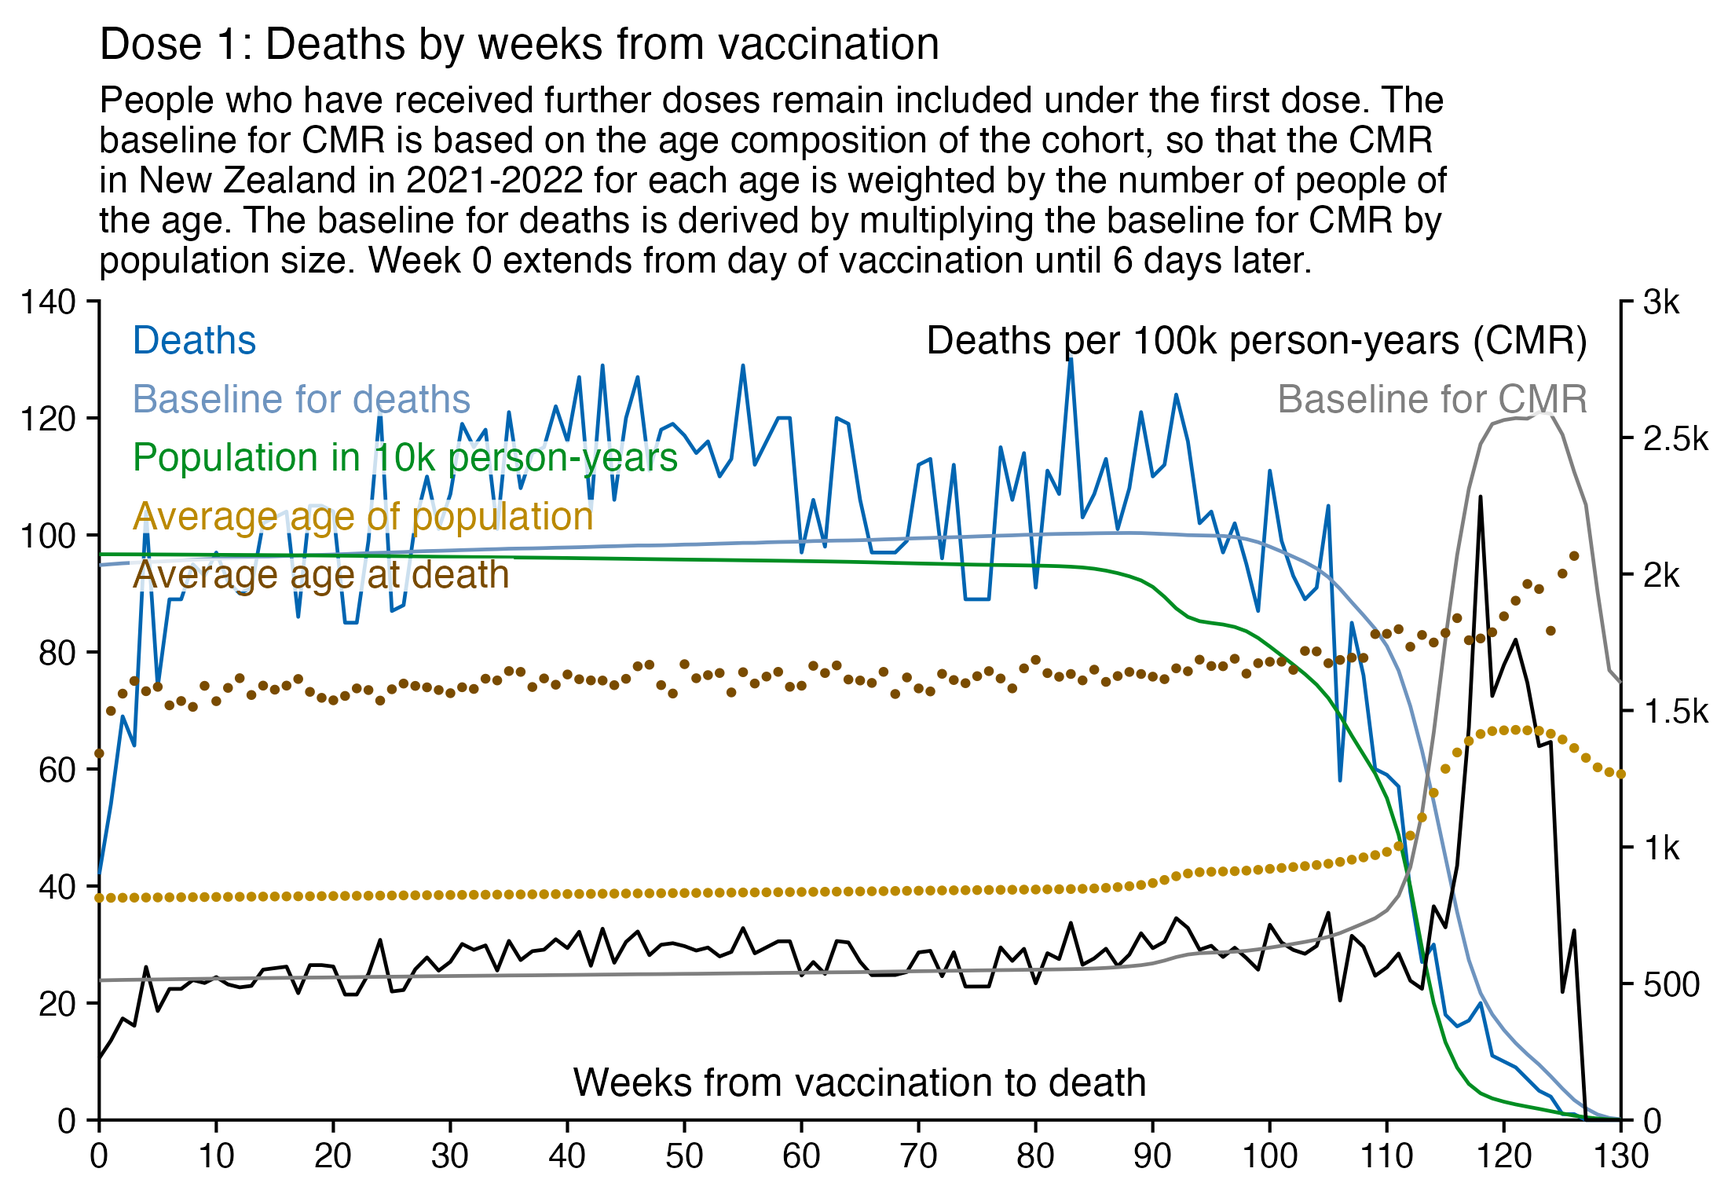
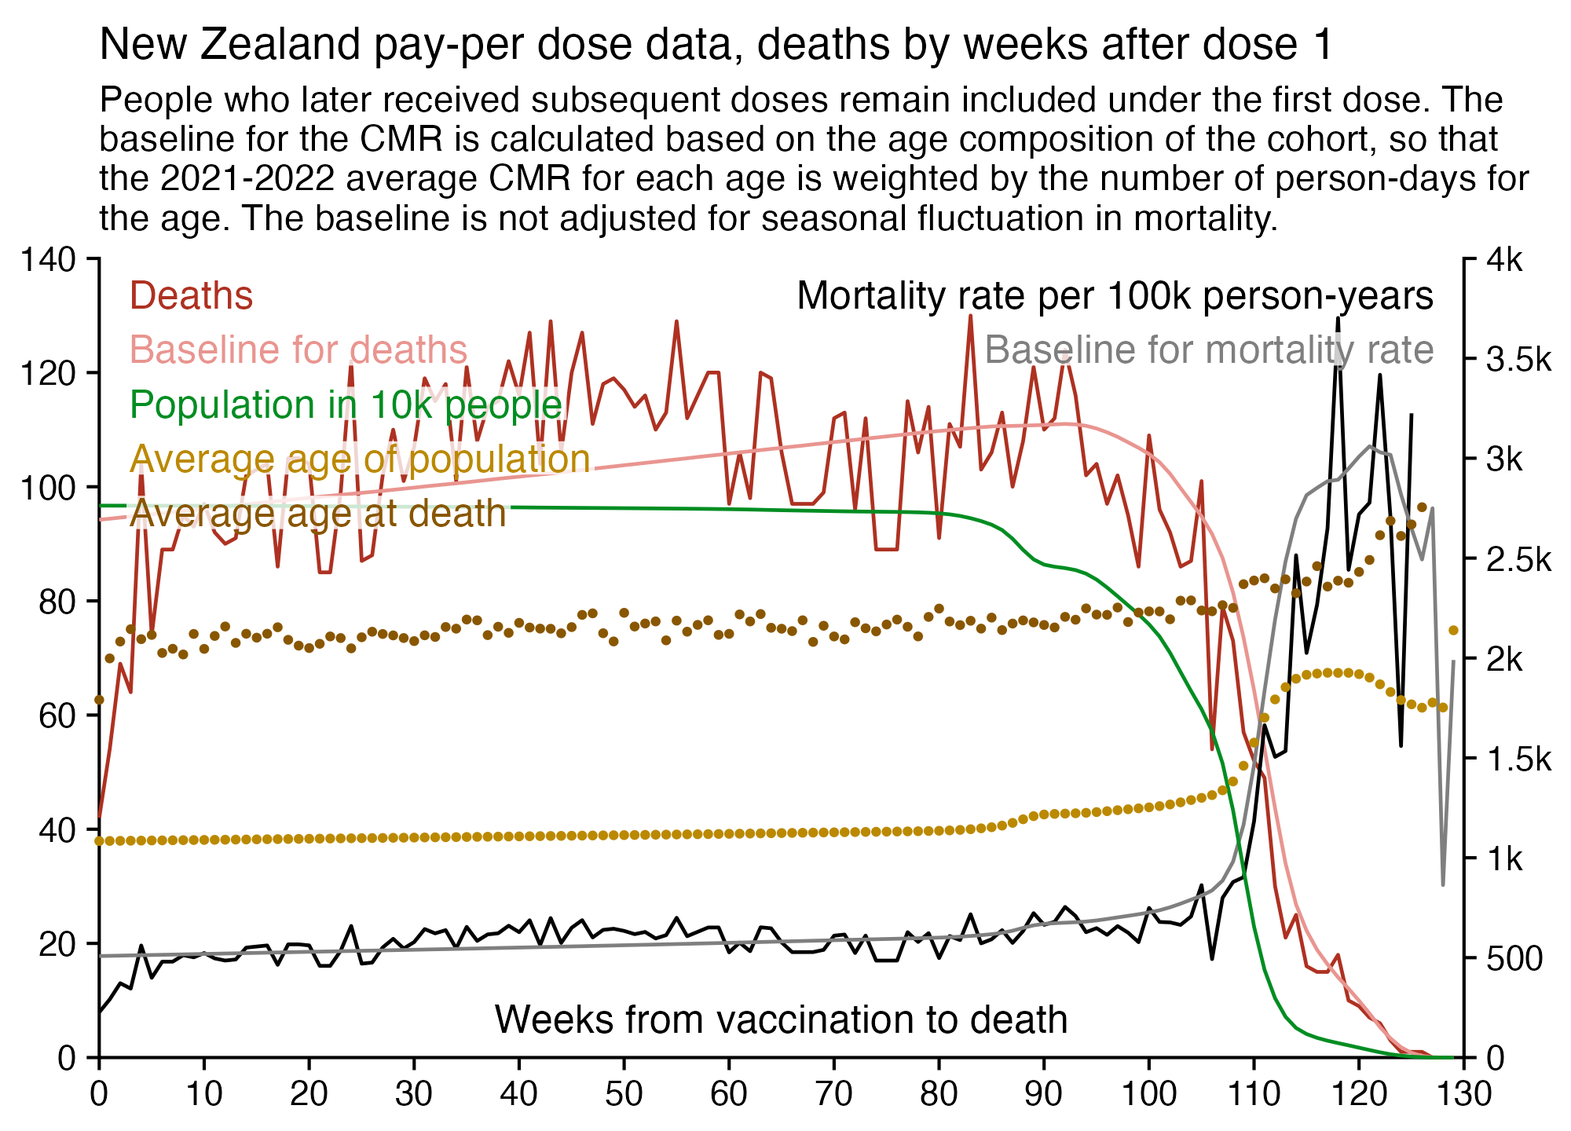
a

Changed region(s): [[0.0, 0.0, 0.992, 1.0]]

diff --git a/moar.html b/moar.html
@@ -57,7 +57,7 @@ th{background:#eee;text-align:left;font-weight:bold}
 </ul></li>
 <li><a href=#Barry_Youngs_interview_with_Liz_Gunn>Barry Young's interview with Liz Gunn</a>
 <ul>
-<li><a href=#Table_for_ten_batches_with_highest_percentage_of_deaths>Table for ten batches with highest percentage of deaths</a></li>
+<li><a href=#Table_for_the_ten_batches_with_the_highest_percentage_of_deaths>Table for the ten batches with the highest percentage of deaths</a></li>
 <li><a href=#Counting_days_with_more_than_120_deaths>Counting days with more than 120 deaths</a></li>
 <li><a href=#Table_for_deaths_by_vaccination_site>Table for deaths by vaccination site</a></li>
 </ul></li>
@@ -88,7 +88,7 @@ th{background:#eee;text-align:left;font-weight:bold}
 </ul></li>
 <li><a href=#Other_datasets_published_by_Kirsch>Other datasets published by Kirsch</a>
 <ul>
-<li><a href=#Increasing_trend_in_deaths_by_days_after_vaccination_in_US_Medicare_data>Increasing trend in deaths by days after vaccination in US Medicare data</a></li>
+<li><a href=#US_Medicare_data>US Medicare data</a></li>
 <li><a href=#Data_for_deaths_in_2020_2023_in_Maldives>Data for deaths in 2020-2023 in Maldives</a></li>
 </ul></li>
 <li><a href=#Research_by_other_people>Research by other people</a>
@@ -365,7 +365,7 @@ mrn,batch_id,dose_number,date_time_of_service,date_of_death,vaccine_name,date_of
 <a href=#Barry_Youngs_interview_with_Liz_Gunn id=Barry_Youngs_interview_with_Liz_Gunn>Barry Young's interview with Liz Gunn</a>
 </h2>
 <h3>
-<a href=#Table_for_ten_batches_with_highest_percentage_of_deaths id=Table_for_ten_batches_with_highest_percentage_of_deaths>Table for ten batches with highest percentage of deaths</a>
+<a href=#Table_for_the_ten_batches_with_the_highest_percentage_of_deaths id=Table_for_the_ten_batches_with_the_highest_percentage_of_deaths>Table for the ten batches with the highest percentage of deaths</a>
 </h3>
 <p>Barry Young's presentation included the table below which shows the ten batches with the highest percentage of deaths per dose: [<a href="https://rumble.com/v3yqgsf-liz-gunn-the-mother-of-all-covid-19-vaccine-revelations-data-revealed-in-th.html">https://rumble.com/v3yqgsf-liz-gunn-the-mother-of-all-covid-19-vaccine-revelations-data-revealed-in-th.html</a>, time 47:00]</p>
 <div class="width6">
@@ -926,20 +926,12 @@ ggsave(&quot;1.png&quot;,width=5.5,height=3.8,dpi=400)</pre>
 <div class="width6">
 <img src="i/moar-first-dose-1.png">
 </div>
-<p>Kirsch didn't use the <span class="quote">&quot;bucket&quot;</span> system in his plot, so people who later got subsequent doses remained included under the first dose.</p>
-<p>I tried using the age composition of the cohort to calculate a baseline for the expected number of deaths per week. I used data from <a href=https://infoshare.stats.govt.nz>infoshare.stats.govt.nz</a> to calculate a CMR for each single-year age in 2021-2022, and I indexed an associative array of CMR values for each age with a vector of the ages of people in my cohort, and I took the average value of the resulting vector, which gave me a baseline for the CMR. And I multiplied it by the cohort size to get the baseline for the number of deaths. My baseline for the weekly number of deaths ended up being about 96-100, so it's much higher than Kirsch's baseline:</p>
+<p>Kirsch didn't use the bucket system in his plot, so people who later got subsequent doses remained included under the first dose.</p>
+<p>I tried using the age composition of the cohort to calculate a baseline for the expected number of deaths per week. I used data from <a href=https://infoshare.stats.govt.nz>infoshare.stats.govt.nz</a> to calculate a CMR for each single-year age in 2021-2022, and I indexed an associative array of CMR values for each age with a vector of the ages of people in my cohort, and I took the average value of the resulting vector, which gave me a baseline for the CMR. And I multiplied it by the cohort size to get the baseline for the number of deaths. My baseline for the weekly number of deaths was about 94 at first but it gradually increased higher because of the aging of the cohort, so it's much higher than Kirsch's baseline:</p>
 <div class="width6">
 <img src="i/moar-first-dose-2.png">
 </div>
-<p>My baseline gets higher over time because a year after the day of vaccination people are a year older, and also because younger people got the first dose later so they run into the end of the dataset earlier. The date of the last death included in the dataset is October 26th 2023, so I'm using it as the date of the end of data. The average number of weeks from the first dose until end of data is about 115 in the age band 80-89 but about 109 in the age band 30-39:</p>
-<pre>&gt; t=as.data.frame(data.table::fread(&quot;nz-record-level-data-4M-records.csv&quot;))
-&gt; for(i in grep(&quot;date&quot;,colnames(t)))t[,i]=as.Date(t[,i],&quot;%m-%d-%Y&quot;)
-&gt; t=t[t$dose==1,]
-&gt; age=(t$date_time_of_service-t$date_of_birth)/365 # age is age at vaccination
-&gt; weeks=floor((max(t$date_of_death,na.rm=T)-t$date_time_of_service)/7)
-&gt; round(tapply(weeks,floor(age/10)*10,mean))
-  0  10  20  30  40  50  60  70  80  90 100 110
- 86 105 108 109 110 111 113 115 115 113 111 102</pre>
+<p>My baseline gets higher over time because a year after the day of vaccination people are a year older, and also because younger people got the first dose later so they run into the end of the dataset earlier.</p>
 <p>Uncle John Returns got similar results: [<a href="https://twitter.com/UncleJo46902375/status/1734606430739873865">https://twitter.com/UncleJo46902375/status/1734606430739873865</a>]</p>
 <div class="width8">
 <img src="i/moar-first-dose-3.png">
@@ -948,76 +940,113 @@ ggsave(&quot;1.png&quot;,width=5.5,height=3.8,dpi=400)</pre>
 <div class="width5">
 <img src="i/moar-first-dose-4.gif">
 </div>
-<pre>t=as.data.frame(data.table::fread(&quot;nz-record-level-data-4M-records.csv&quot;))
+<pre>library(tidyverse)
+
+t=as.data.frame(data.table::fread(&quot;nz-record-level-data-4M-records.csv&quot;))
 for(i in grep(&quot;date&quot;,colnames(t)))t[,i]=as.Date(t[,i],&quot;%m-%d-%Y&quot;)
-t=t[t$dose==1,]
+
+maxdate=as.Date(&quot;2023-9-30&quot;)
+t=t[!(!is.na(t$date_of_death)&amp;t$date_of_death&gt;maxdate),]
+t=t[!t$date_time_of_service&gt;maxdate,]
+t=t[!(!is.na(t$date_of_death)&amp;t$date_of_death&lt;t$date_time_of_service),]
+
+# t=t[order(t$date_time_of_service),]
+# t=t[!duplicated(t$mrn),]
+
+t=t[t$dose_number%in%1,]
+
+# age=t$date_of_birth%--%t$date_time_of_service%/%years()
+# t=t[age%in%60:79,]
+
+# t=t[t$date_time_of_service%in%as.Date(&quot;2021-7-1&quot;):as.Date(&quot;2021-9-30&quot;),]
+
+bin=7
 
 dead=t[!is.na(t$date_of_death),]
-deadweek=as.numeric(dead$date_of_death-dead$date_time_of_service)%/%7
+deadbin=as.numeric(dead$date_of_death-dead$date_time_of_service)%/%bin
 
-enddate=pmin(t$date_of_death,max(t$date_of_death,na.rm=T),na.rm=T)
-endweek=as.numeric(enddate-t$date_time_of_service)%/%7
-age=(t$date_time_of_service-t$date_of_birth)/365
+endbin=as.numeric(maxdate-t$date_time_of_service)%/%bin
+age=t$date_of_birth%--%t$date_time_of_service/years()
 
-pop=tail(read.csv(&quot;https://mongol-fi.github.io/f/nz_infoshare_population.csv&quot;),2)[,2:96]
-death=tail(read.csv(&quot;https://mongol-fi.github.io/f/nz_infoshare_deaths.csv&quot;),2)[,2:96]
-cmr=data.frame(x=0:94,y=colMeans(death)/colMeans(pop)*1e5)
+nzpop=colMeans(tail(read.csv(&quot;https://mongol-fi.github.io/f/nz_infoshare_population.csv&quot;),2)[,2:96])
+nzdeath=colMeans(tail(read.csv(&quot;https://mongol-fi.github.io/f/nz_infoshare_deaths.csv&quot;),2)[,2:96])
+cmr=data.frame(x=0:94,y=nzdeath/nzpop*1e5)
 cmr=c(cmr$y,predict(loess(y~x,cmr,control=loess.control(surface=&quot;direct&quot;)),95:120))
 
-weeks=0:max(endweek)
-pop=rev(cumsum(rev(table(factor(endweek,weeks)))))
-baseline=weeks|&gt;sapply(\(i)mean(cmr[floor(age[i&lt;=endweek]+(i/365*7))+1]))
+bins=0:max(endbin)
+pop=rev(cumsum(rev(table(factor(endbin,bins)))))*bin
+baseline=sapply(bins,\(i)mean(cmr[floor(age[i&lt;=endbin]+i*bin/365)+1]))
 
-xy=data.frame(week=weeks,baseline,pop)
-xy$dead=as.numeric(table(factor(deadweek,xy$week)))
-xy$cmr=xy$dead/xy$pop*1e5*365/7
-xy$age=age=weeks|&gt;sapply(\(i)mean(age[i&lt;=endweek]))+xy$week*7/365
-xy$deadage=tapply(dead$age,factor(deadweek,xy$week),mean)+xy$week*7/365
+xy=data.frame(bin=bins,baseline,pop)
+xy$dead=as.numeric(table(factor(deadbin,xy$bin)))
+xy$cmr=xy$dead/xy$pop*1e5*365
+xy$age=sapply(bins,\(i)mean(age[i&lt;=endbin]))+xy$bin*bin/365
+xy$deadage=tapply(dead$age,factor(deadbin,xy$bin),mean)+xy$bin*bin/365
+xy$deadbase=xy$baseline*xy$pop/1e5/365
 
-ystart=xstart=0;xend=130;xstep=10
-candidates=c(sapply(c(1,2,5),\(x)x*10^c(-10:10)))
-ymax=max(xy$age,xy$dead,xy$pop/1e4)
-ystep=candidates[which.min(abs(candidates-ymax/5))]
+# xy$bin=xy$bin*bin # display days instead of weeks since vaccination on x-axis
+
+xy$cmr[xy$pop&lt;1e4]=NA
+
+label=read.csv(row.names=1,text=&quot;name,title
+cmr,Mortality rate per 100k person-years
+baseline,Baseline for mortality rate
+dead,Deaths
+deadbase,Baseline for deaths
+age,Average age of population
+deadage,Average age at death
+pop,Population in 10k people&quot;)
+label$color=c(&quot;black&quot;,&quot;gray50&quot;,hcl(15,100,40),hcl(15,60,70),hcl(60,90,60),hcl(60,110,40),hcl(135,80,50))
+
+lab1=strsplit(&quot;dead,deadbase,pop,age,deadage&quot;,&quot;,&quot;)[[1]]
+lab2=strsplit(&quot;cmr,baseline&quot;,&quot;,&quot;)[[1]]
+
+label$mult=1
+label[&quot;pop&quot;,]$mult=1/bin/10000
+label[&quot;baseline&quot;,]$mult=label[&quot;cmr&quot;,]$mult=1
+
+xstart=ystart=0
+cand=c(sapply(c(1,2,5),\(x)x*10^c(-10:10)))
+ymax=max(t(t(xy[,lab1])*label[lab1,]$mult),na.rm=T)
+ystep=cand[which.min(abs(cand-ymax/5))]
 yend=ystep*ceiling(ymax/ystep)
+xstep=cand[which.min(abs(cand-max(xy$bin)/9))]
+xend=xstep*ceiling(max(xy$bin)/xstep)
 xbreak=seq(xstart,xend,xstep)
 ybreak=seq(ystart,yend,ystep)
-
-ymax2=max(xy$cmr,xy$baseline)
-ystep2=candidates[which.min(abs(candidates-ymax2/6))]
+ymax2=max(t(t(xy[,lab2])*label[lab2,]$mult),na.rm=T)
+ystep2=cand[which.min(abs(cand-ymax2/6))]
 yend2=ceiling(ymax2/ystep2)*ystep2
-secmult=yend/yend2
+secmult=yend/yend2*.99999
 
-xy=xy[sample(nrow(xy)),] # get random pattern of overlap between dots
+label1=data.frame(x=.02*xend,y=seq(yend*.955,ystart,,15)[1:length(lab1)],label=label[lab1,]$title,color=label[lab1,]$color)
+label2=data.frame(x=.98*xend,y=seq(yend*.955,ystart,,15)[1:length(lab2)],label=label[lab2,]$title,color=label[lab2,]$color)
 
-color1=c(hcl(245,80,40),hcl(245,45,60),hcl(135,80,50),hcl(60,90,60),hcl(60,100,35))
-color2=c(&quot;black&quot;,&quot;gray50&quot;)
+label$mult=label$mult*ifelse(rownames(label)%in%lab2,secmult,1)
+xy2=as.data.frame(t(t(xy)*c(1,label[names(xy)[-1],]$mult)))
 
-label1=data.frame(x=.02*xend,y=seq(yend,ystart,,15)[1:5],label=c(&quot;Deaths&quot;,&quot;Baseline for deaths&quot;,&quot;Population in 10k person-years&quot;,&quot;Average age of population&quot;,&quot;Average age at death&quot;))
-label2=data.frame(x=.98*xend,y=seq(yend,ystart,,15)[1:2],label=c(&quot;Deaths per 100k person-years (CMR)&quot;,&quot;Baseline for CMR&quot;))
+xy2=xy2[sample(nrow(xy2)),] # get random pattern of overlap between `geom_point`
 
 kimi=\(x)ifelse(abs(x)&gt;=1e6,paste0(x/1e6,&quot;M&quot;),ifelse(abs(x)&gt;=1e3,paste0(x/1e3,&quot;k&quot;),x))
 
-library(ggplot2)
-ggplot(xy,aes(x=week))+
+p=ggplot(xy2,aes(x=bin))+
 geom_hline(yintercept=ystart,color=&quot;black&quot;,linewidth=.35,lineend=&quot;square&quot;)+
 geom_vline(xintercept=c(xstart,xend),color=&quot;black&quot;,linewidth=.35,lineend=&quot;square&quot;)+
-geom_line(aes(y=dead),linewidth=.4,color=color1[1])+
-geom_line(aes(y=baseline*pop/1e5/365*7),linewidth=.4,color=color1[2])+
-geom_line(aes(y=pop/1e4),linewidth=.4,color=color1[3])+
-geom_line(aes(y=cmr*secmult),linewidth=.4,color=color2[1])+
-geom_line(aes(y=baseline*secmult),linewidth=.4,color=color2[2])+
-geom_point(aes(y=age),size=.4,color=color1[4])+
-geom_point(aes(y=deadage),size=.4,color=color1[5])+
-geom_line(aes(y=pop*1e4),linewidth=.4,linetype=2)+
-geom_label(data=label1,aes(x=x,y=y,label=label),fill=alpha(&quot;white&quot;,.8),label.r=unit(0,&quot;lines&quot;),label.padding=unit(.04,&quot;lines&quot;),label.size=0,size=3.2,hjust=0,vjust=1.7,color=color1)+
-geom_label(data=label2,aes(x=x,y=y,label=label),fill=alpha(&quot;white&quot;,.8),label.r=unit(0,&quot;lines&quot;),label.padding=unit(.04,&quot;lines&quot;),label.size=0,size=3.2,hjust=1,vjust=1.7,color=color2)+
+geom_line(aes(y=dead),linewidth=.4,color=label[&quot;dead&quot;,]$color)+
+geom_line(aes(y=deadbase),linewidth=.4,color=label[&quot;deadbase&quot;,]$color)+
+geom_line(aes(y=cmr),linewidth=.4,color=label[&quot;cmr&quot;,]$color)+
+geom_line(aes(y=baseline),linewidth=.4,color=label[&quot;baseline&quot;,]$color)+
+geom_line(aes(y=pop),linewidth=.4,color=label[&quot;pop&quot;,]$color)+
+geom_point(aes(y=age),size=.4,color=label[&quot;age&quot;,]$color)+
+geom_point(aes(y=deadage),size=.4,color=label[&quot;deadage&quot;,]$color)+
+geom_label(data=label1,aes(x=x,y=y,label=label),fill=alpha(&quot;white&quot;,.8),label.r=unit(0,&quot;lines&quot;),label.padding=unit(.04,&quot;lines&quot;),label.size=0,size=3.2,hjust=0,vjust=.5,color=label1$color)+
+geom_label(data=label2,aes(x=x,y=y,label=label),fill=alpha(&quot;white&quot;,.8),label.r=unit(0,&quot;lines&quot;),label.padding=unit(.04,&quot;lines&quot;),label.size=0,size=3.2,hjust=1,vjust=.5,color=label2$color)+
 annotate(geom=&quot;label&quot;,x=xend/2,y=0,vjust=-.7,hjust=.5,label=&quot;Weeks from vaccination to death&quot;,fill=alpha(&quot;white&quot;,.8),label.r=unit(0,&quot;lines&quot;),label.padding=unit(.04,&quot;lines&quot;),label.size=0,size=3.2)+
-labs(x=NULL,y=&quot;&quot;,title=&quot;Dose 1: Deaths by weeks from vaccination&quot;,subtitle=paste0(&quot;People who have received further doses remain included under the first dose. The baseline for CMR is based on the age composition of the cohort, so that the CMR in New Zealand in 2021-2022 for each age is weighted by the number of people of the age. The baseline for deaths is derived by multiplying the baseline for CMR by population size. Week 0 extends from day of vaccination until 6 days later.&quot;)|&gt;stringr::str_wrap(83))+
+labs(x=NULL,y=&quot;&quot;,title=paste0(&quot;New Zealand pay-per dose data, deaths by weeks after dose 1&quot;)|&gt;str_wrap(100),subtitle=paste0(&quot;People who later received subsequent doses remain included under the first dose. The baseline for the CMR is calculated based on the age composition of the cohort, so that the 2021-2022 average CMR for each age is weighted by the number of person-days for the age. The baseline is not adjusted for seasonal fluctuation in mortality.&quot;)|&gt;str_wrap(86))+
 coord_cartesian(clip=&quot;off&quot;)+
 scale_x_continuous(limits=c(xstart,xend),breaks=xbreak,expand=c(0,0))+
-scale_y_continuous(limits=c(ystart,yend),breaks=ybreak,expand=c(0,0),labels=kimi,sec.axis=sec_axis(trans=~./secmult,breaks=seq(0,yend2,ystep2),labels=kimi))+
-theme(
-  axis.text=element_text(size=8,color=&quot;black&quot;),
+scale_y_continuous(limits=c(ystart,yend),breaks=ybreak,expand=c(0,0),label=kimi,sec.axis=sec_axis(trans=~./secmult,breaks=seq(0,yend2,ystep2),label=kimi))+
+theme(axis.text=element_text(size=8,color=&quot;black&quot;),
   axis.ticks=element_line(linewidth=.35,color=&quot;black&quot;),
   axis.ticks.length=unit(.2,&quot;lines&quot;),
   axis.title=element_blank(),
@@ -1026,11 +1055,10 @@ theme(
   panel.background=element_rect(fill=&quot;white&quot;),
   panel.grid=element_blank(),
   plot.margin=margin(.3,.3,.3,.3,&quot;lines&quot;),
-  plot.subtitle=element_text(size=8.5,margin=margin(0,0,.6,0,&quot;lines&quot;)),
-  plot.title=element_text(size=10.2,margin=margin(.2,0,.4,0,&quot;lines&quot;))
-)
-
-ggsave(&quot;1.png&quot;,width=5.5,height=3.8,dpi=400)</pre>
+  plot.subtitle=element_text(size=8.4,margin=margin(0,0,.6,0,&quot;lines&quot;)),
+  plot.title=element_text(size=10.2,margin=margin(.2,0,.4,0,&quot;lines&quot;)))
+ggsave(&quot;1.png&quot;,width=5,height=3.6,dpi=400)
+system(&quot;qlmanage -p 1.png &amp;&gt;/dev/null&quot;)</pre>
 <h3>
 <a href=#Calculating_an_accurate_baseline_for_deaths_after_third_dose_in_ages_70_79 id=Calculating_an_accurate_baseline_for_deaths_after_third_dose_in_ages_70_79>Calculating an accurate baseline for deaths after third dose in ages 70-79</a>
 </h3>
@@ -1802,7 +1830,7 @@ ggsave(&quot;1.png&quot;,width=4.6,height=3.3)</pre>
 <a href=#Other_datasets_published_by_Kirsch id=Other_datasets_published_by_Kirsch>Other datasets published by Kirsch</a>
 </h2>
 <h3>
-<a href=#Increasing_trend_in_deaths_by_days_after_vaccination_in_US_Medicare_data id=Increasing_trend_in_deaths_by_days_after_vaccination_in_US_Medicare_data>Increasing trend in deaths by days after vaccination in US Medicare data</a>
+<a href=#US_Medicare_data id=US_Medicare_data>US Medicare data</a>
 </h3>
 <p>Kirsch wrote: [<a href="https://kirschsubstack.com/p/medicare-death-data-proves-the-covid">https://kirschsubstack.com/p/medicare-death-data-proves-the-covid</a>]</p>
 <blockquote>
@@ -2077,6 +2105,27 @@ ggsave(&quot;1.png&quot;,width=4.5,height=3)</pre>
 <img src="i/moar-medicare-16.png">
 </div>
 <p>So maybe if Kirsch can get the source who gave him the Medicare data to do a query for the number of deaths by days from vaccination and by vaccine type, it would show that Moderna vaccines had a spike in deaths a week later than Pfizer vaccines.</p>
+<p>However next I found that the Medicare data from Connecticut seems to contradict my hypothesis, because there's a fairly sharp inflection point in deaths around day 30 even for the second dose (which obviously cannot be explained by deaths caused by the third dose):</p>
+<div class="width7">
+<img src="i/moar-medicare-17.png">
+</div>
+<p>Out of people who have both first and second doses listed in the Connecticut data, the date of the second shot is within 30 days from the first shot for about 85% of people. But out of people with both second and third doses listed, the third dose is within 30 days from the second dose for only about 1% of people.</p>
+<p>In the case of the New Zealand data, if you only include dose 1 for each person and not the earliest listed dose which is often not dose 1, then you also get a sharper turning point in deaths around days 30-50:</p>
+<div class="width7">
+<img src="i/moar-medicare-18.png">
+</div>
+<p>Here's another plot which only shows the splines but where I added a line for the second dose in the Connecticut data, which has a fairly sharp turning point around days 30-40:</p>
+<div class="width7">
+<img src="i/moar-medicare-19.png">
+</div>
+<p>In the NZ data it looks like older age groups have a sharper turning point around 30-50 days, but on the other hand younger age groups have more noise because of a low number of deaths, so it's hard to tell:</p>
+<div class="width6">
+<img src="i/moar-medicare-20.png">
+</div>
+<p>For some reason the maximum age in the Medicare all states subset sheet is only 80 years, so I had to adjust my age groups for the plot below. However you can't really tell if the inflection point during the first 1-2 months occurs earlier in younger or older age groups:</p>
+<div class="width6">
+<img src="i/moar-medicare-21.png">
+</div>
 <h3>
 <a href=#Data_for_deaths_in_2020_2023_in_Maldives id=Data_for_deaths_in_2020_2023_in_Maldives>Data for deaths in 2020-2023 in Maldives</a>
 </h3>
@@ -3247,6 +3296,10 @@ from the seasonal plus trend fit.</pre>
            x        y movingaverage      stl
 1 2010-12-30 644.0150      661.7664 697.5768
 2 2011-01-06 669.6959      663.6873 697.1584</pre>
+<p>In the United States the trend calculated with <code>stl</code> also began to increase in late 2019 because of COVID deaths in spring 2020:</p>
+<div class="width6">
+<img src="i/moar-epidemiologist-3.png">
+</div>
 <h3>
 <a href=#Increase_in_mortality_rate_in_batches_10_13_and_34 id=Increase_in_mortality_rate_in_batches_10_13_and_34>Increase in mortality rate in batches 10, 13, and 34</a>
 </h3>
@@ -3371,7 +3424,7 @@ system(&quot;montage -geometry +0+0 -tile 2x [12]..png 1.png&quot;)</pre>
 <img src="i/moar-medicare-pneumonia.png">
 </div>
 <p>(The pneumonia vaccine data published by Kirsch had a large number of deaths on the day of vaccination, so I omitted them from the plot above in order to not stretch the y-axis too much. For example in 2020 there were 1487 deaths on the day of vaccination but only 387 deaths the next day. If it's true that a thousand extra people died on the day of a pneumonia vaccination, then that seems like a clear safety signal, but a similar phenomenon is not visible in the data for COVID vaccines that Kirsch published from the United States, New Zealand, or the Maldives.)</p>
-<p>There also seems to be reduced mortality for about 3 months after the flu vaccines:</p>
+<p>There also seems to be reduced mortality for about 2-3 months after the flu vaccines:</p>
 <div class="width6">
 <img src="i/moar-medicare-pneumonia-2.png">
 </div>
@@ -3382,11 +3435,11 @@ system(&quot;montage -geometry +0+0 -tile 2x [12]..png 1.png&quot;)</pre>
 <h3>
 <a href=#Strong_signal_found_by_Kalev id=Strong_signal_found_by_Kalev>Strong signal found by Kalev</a>
 </h3>
-<p>Some Estonian guy on Substack wrote that there was a strong safety signal in the pay-per-dose data, because the mortality rate in ages 70 to 90 increased from about 2,000 in 2021 to about 4,000-5,000 in 2022 and 2023: [<a href="https://kalev.substack.com/p/new-zealand-vaccine-data-a-case-for">https://kalev.substack.com/p/new-zealand-vaccine-data-a-case-for</a>]</p>
+<p>Some Estonian guy on Substack wrote that there was a strong safety signal in the pay-per-dose data, because the mortality rate in ages 70 to 90 increased from about 1,000-2,000 in 2021 to about 3,000-4,000 in 2022 and 2023: [<a href="https://kalev.substack.com/p/new-zealand-vaccine-data-a-case-for">https://kalev.substack.com/p/new-zealand-vaccine-data-a-case-for</a>]</p>
 <div class="width5">
 <img src="i/moar-kalev.png">
 </div>
-<p>However in 2022 the mortality rate of people aged 70-90 was about 4,000 (or about 3,800 if you don't include age 90):</p>
+<p>However in 2022 the mortality rate in ages 70-90 was about 4,000 (or about 3,800 if you don't include age 90):</p>
 <pre>&gt; nzpop=tail(read.csv(&quot;https://mongol-fi.github.io/f/nz_infoshare_population.csv&quot;),1)[,3:96]
 &gt; nzdeath=tail(read.csv(&quot;https://mongol-fi.github.io/f/nz_infoshare_deaths.csv&quot;),1)[,3:96]
 &gt; sum(nzdeath[,70:90])/sum(nzpop[,70:90])*1e5
